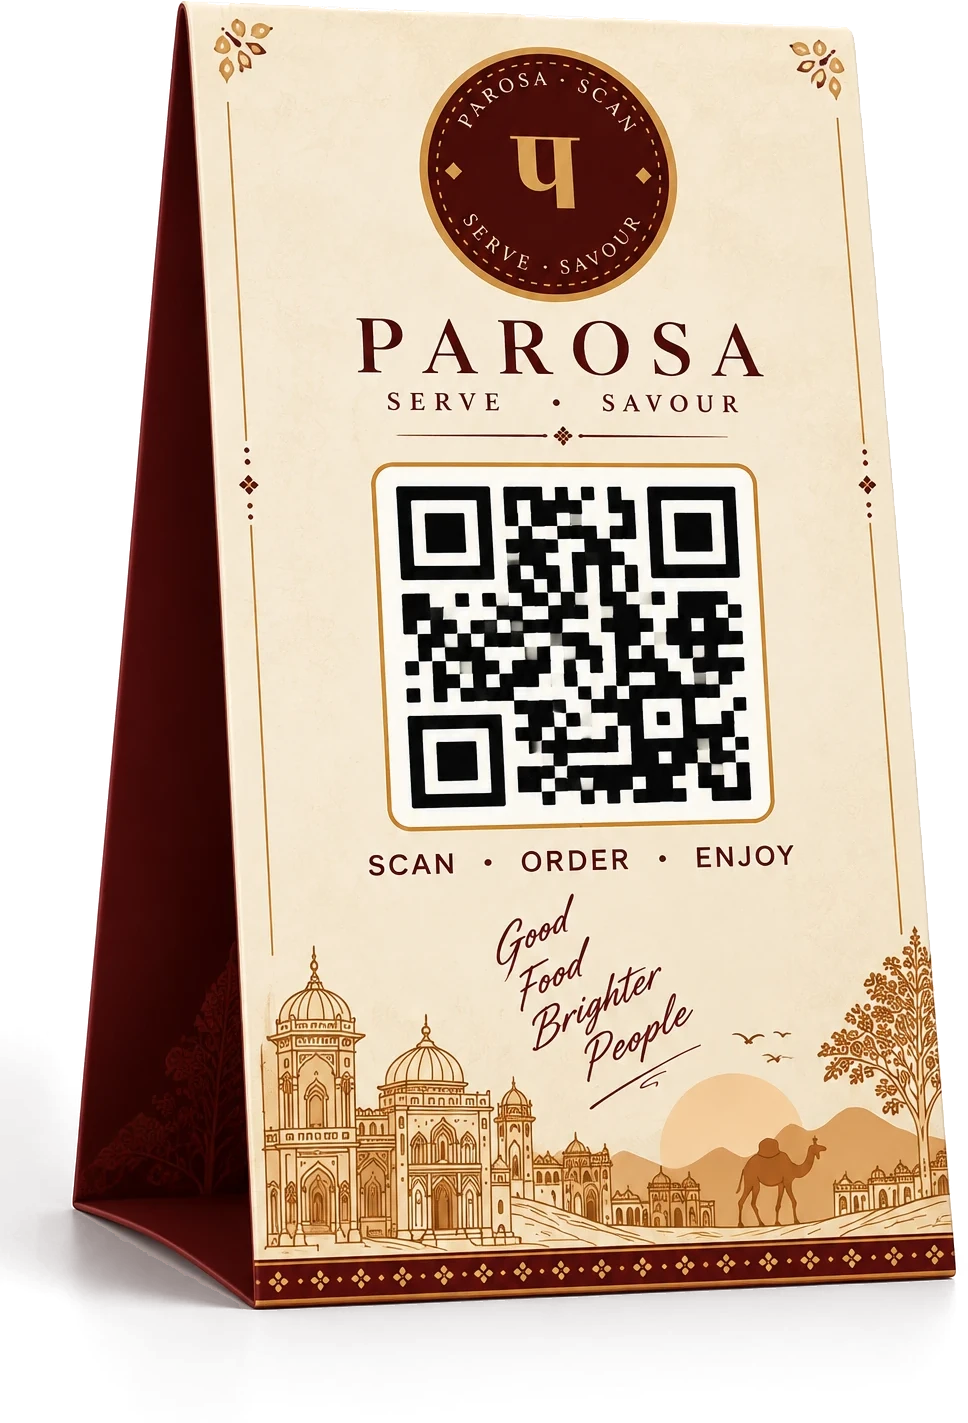
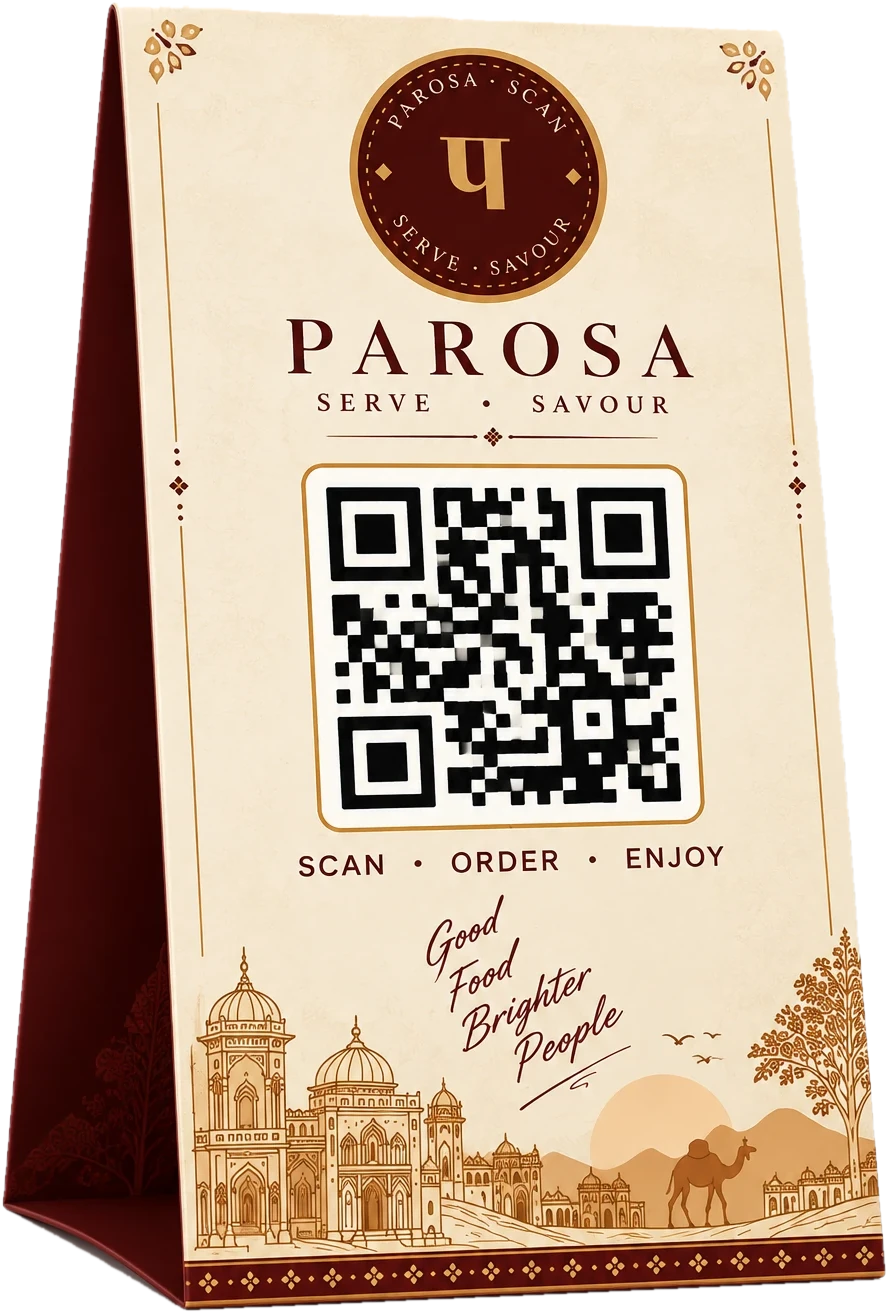
v0.4.5 — QR stand: clean cut-out, shadow under its base
- Re-cut stand.webp with no background haze (it showed as a grey box and a
  shadow 38px below the stand).
- Single contact shadow directly under the base; offset drop-shadow removed.
- Stand position unchanged (within 1-2px).

diff --git a/src/app/landing.css b/src/app/landing.css
@@ -84,7 +84,11 @@
 .lp-ticks svg { color: var(--maroon); flex: none; }
 
 .lp-visual { position: relative; height: 560px; }
-.lp-stand { position: absolute; left: 4%; bottom: 0; width: 330px; animation: lp-rise .9s .25s cubic-bezier(.2,.8,.2,1) both; filter: drop-shadow(0 28px 30px rgba(79,14,16,.18)); }
+.lp-stand { position: absolute; left: calc(4% + 23px); bottom: 37px; width: 304px; /* same spot as the original stand; the image is now cropped to the stand itself */
+  animation: lp-rise .9s .25s cubic-bezier(.2,.8,.2,1) both; filter: drop-shadow(0 6px 10px rgba(79,14,16,.16)); }
+/* contact shadow, exactly under the stand's base */
+.lp-stand::after { content: ""; position: absolute; left: 4%; right: -3%; bottom: -14px; height: 30px; z-index: -1; border-radius: 50%;
+  background: radial-gradient(closest-side, rgba(70,30,15,.38), rgba(70,30,15,.14) 60%, transparent); filter: blur(4px); }
 .lp-stand img, .lp-phone img { width: 100%; height: auto; display: block; }
 .lp-phone { position: absolute; right: 1%; bottom: 0; width: min(350px, 25vw); z-index: 5; /* front-most layer of the hero */ animation: lp-phone-in 1s .4s cubic-bezier(.2,.8,.2,1) both;
   /* the wrist is cut at the photo's bottom and right edges — fade both into the page instead of hard lines */
@@ -279,7 +283,7 @@
   .lp-copy { padding-bottom: 0; }
   .lp-arch { right: -10%; top: auto; bottom: 0; width: 70vw; height: 39%; }
   .lp-visual { height: min(84vw, 420px); margin-top: 26px; }
-  .lp-stand { width: 48vw; max-width: 300px; left: 2%; }
+  .lp-stand { width: 44vw; max-width: 276px; left: calc(2% + 3.3vw); bottom: 5vw; }
   .lp-phone { width: 52vw; max-width: 330px; }
   .lp-script.s1 { font-size: 19px; top: 8px; left: 44%; }
 

diff --git a/src/app/Landing.tsx b/src/app/Landing.tsx
@@ -211,7 +211,7 @@ export function Landing({ fontClass }: { fontClass: string }) {
             <span className="lp-script s2">Scan<br />Order<br />Enjoy</span>
             {/* hand-drawn arrow from "Scan · Order · Enjoy" sweeping right into the stand */}
             <svg className="lp-curl" viewBox="0 0 80 50" fill="none" stroke="currentColor" strokeWidth="2" strokeLinecap="round" strokeLinejoin="round"><path d="M8 4c-3 20 9 34 32 34 11 0 21-3 30-8" /><path d="M61 24l10 6-8 8" /></svg>
-            <div className="lp-stand"><Image src="/landing/stand.webp" alt="" width={968} height={1423} priority sizes="(max-width: 900px) 46vw, 330px" /></div>
+            <div className="lp-stand"><Image src="/landing/stand.webp" alt="" width={888} height={1313} priority sizes="(max-width: 900px) 44vw, 304px" /></div>
           </div>
         </div>
         <div className="lp-phone" aria-hidden="true"><Image src="/landing/phone.webp" alt="" width={957} height={1422} priority sizes="(max-width: 900px) 52vw, 420px" /></div>

diff --git a/CHANGELOG.md b/CHANGELOG.md
@@ -4,6 +4,15 @@ Every release is pushed to GitHub (`main`), deploys automatically to
 **https://parosa.vercel.app**, and is tagged `vX.Y.Z` in git.
 Minor version = new features / redesigns · patch = fixes.
 
+## v0.4.5 — 19 Sep 2026
+QR stand shadow fix.
+- The stand image carried the photo's grey studio haze and cast shadow, which
+  showed as a grey box beside the stand with a hard edge, and the stand floated
+  38px above that shadow. Re-cut the stand cleanly (no background at all).
+- One soft contact shadow now sits directly under the stand's base; the old
+  offset drop-shadow is removed.
+- The stand stays in exactly the same place as before (within 1–2px).
+
 ## v0.4.4 — 19 Sep 2026
 Arch and script placement.
 - The semicircle arch now sits directly under the header's Login / Get Started
